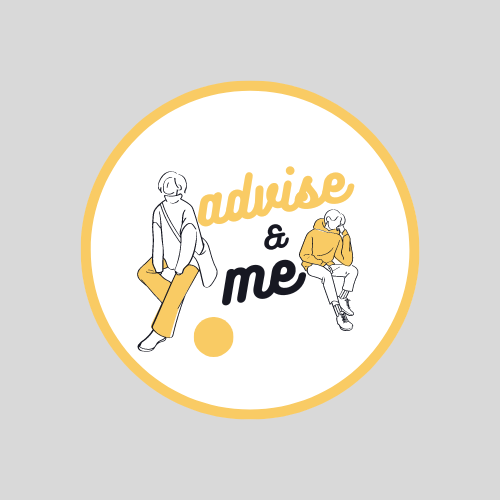
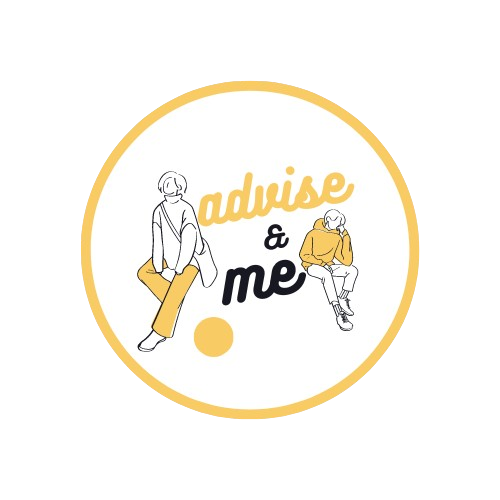
add: css styles

diff --git a/styles.css b/styles.css
@@ -1,0 +1,78 @@
+/* Google fonts */
+@import url("https://fonts.googleapis.com/css2?family=Roboto:ital,wght@0,100;0,300;0,400;0,500;0,700;0,900;1,100;1,300;1,400;1,500;1,700;1,900&display=swap");
+
+* {
+  box-sizing: border-box;
+  margin: 0;
+  padding: 0;
+  font-family: "Roboto", sans-serif;
+}
+body {
+  background-color: #f9cb64;
+}
+
+#container {
+  display: flex;
+  align-items: center;
+  flex-direction: column;
+  /* position: relative; */
+  height: 100vh;
+  color: #ffffff;
+  font-size: 1.8rem;
+  text-align: center;
+  overflow: hidden;
+  padding: 10px 0;
+  width: 100%;
+}
+
+#container h2 {
+  margin-top: 2rem;
+}
+
+.advice-container {
+  height: 100%;
+}
+
+#container div p {
+  line-height: 1.2em;
+  margin-top: 20px;
+  margin-bottom: auto;
+  font-size: 1.8rem;
+  width: 100%;
+  padding: 0 10px;
+}
+
+#loadAdviceBtn {
+  border-style: none;
+  background-color: #ffffff;
+  padding: 1em 3em;
+  font-size: 1.2rem;
+  font-weight: 600;
+  margin-top: 6.5em;
+  cursor: pointer;
+  transition: 0.3s all;
+  border-style: none;
+  border-radius: 1rem;
+  text-transform: uppercase;
+
+  &:hover {
+    background-color: #161622;
+    color: #ffffff;
+    /* border: 1px solid  #fff; */
+  }
+}
+
+#adviseMeImg {
+  height: 10em;
+}
+
+@media only screen and (max-width: 900px) {
+  #container div p {
+    font-size: 1.5rem;
+  }
+
+  #loadAdviceBtn {
+    padding: 0.7em 2.5em;
+    font-size: 1rem;
+  }
+}

diff --git a/index.html b/index.html
@@ -3,19 +3,22 @@
   <head>
     <meta charset="UTF-8" />
     <meta name="viewport" content="width=device-width, initial-scale=1.0" />
+    <link rel="stylesheet" href="./styles.css" />
     <title>Advise Me</title>
   </head>
   <body>
     <mani id="container">
-      <h2>Advise Me</h2>
+      <h2>Advise Me 👴</h2>
 
       <section class="advice-container">
         <div>
-          <p id="loadingAdvice">Press "Get advice" to be advised...</p>
+          <p id="loadingAdvice">Press "Get advice" to be advised...🌟</p>
         </div>
         <button id="loadAdviceBtn">Get advice</button>
       </section>
-      <img src="./assets/2.png" alt="advise-me image" id="adviseMeImg" />
+      <img src="./assets/1.png" alt="advise-me logo" id="adviseMeImg" />
     </mani>
+
+    <script src="./script.js"></script>
   </body>
 </html>
